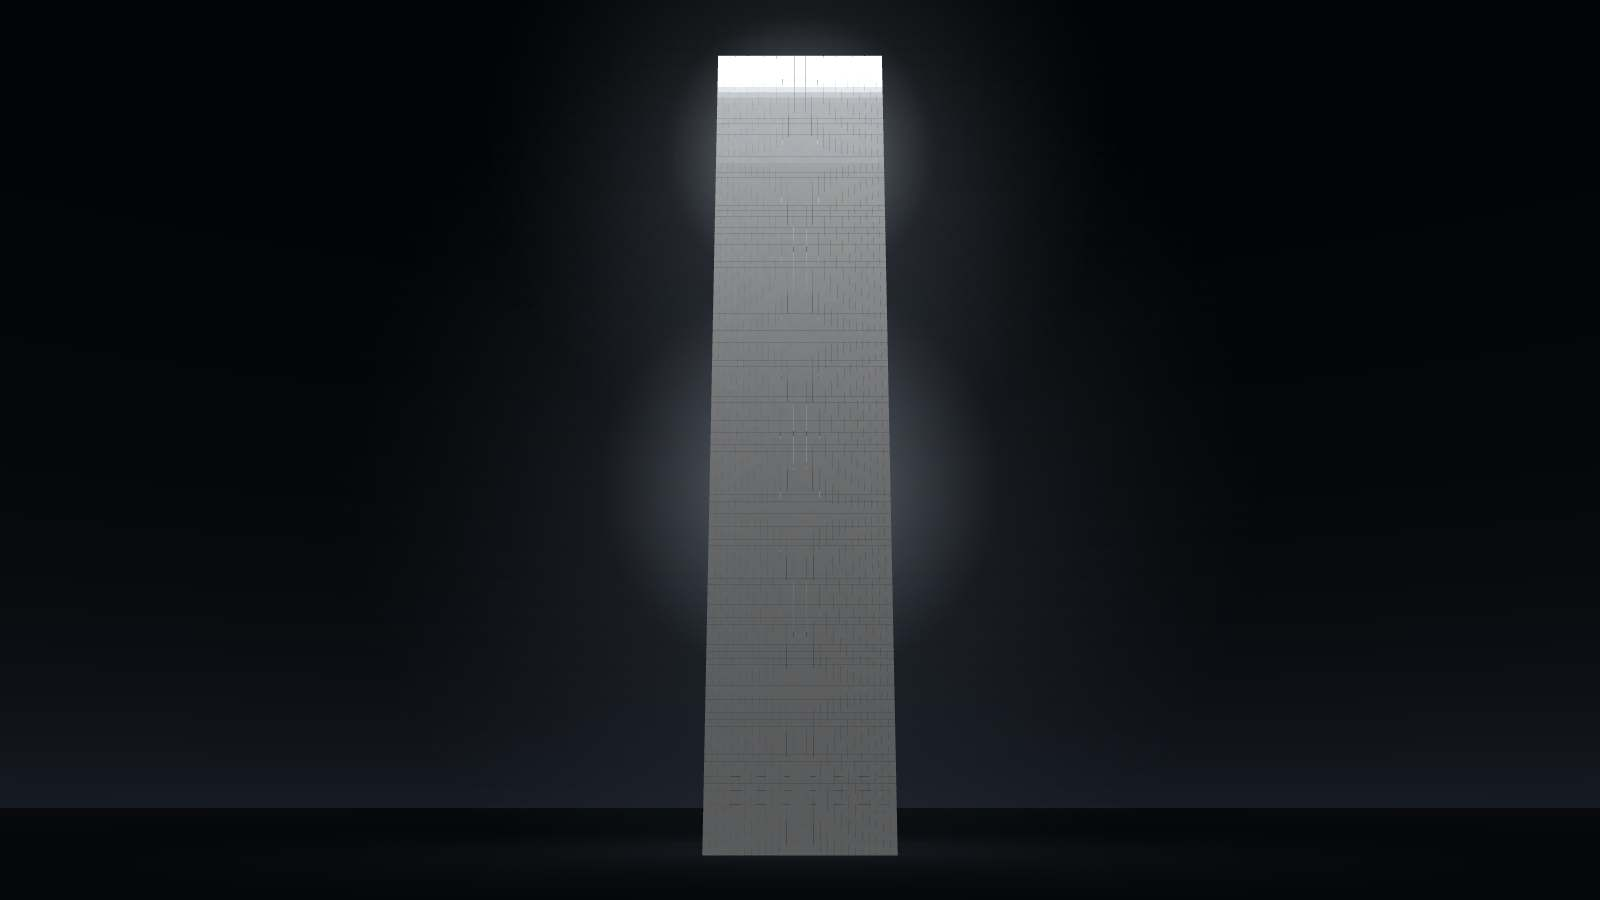
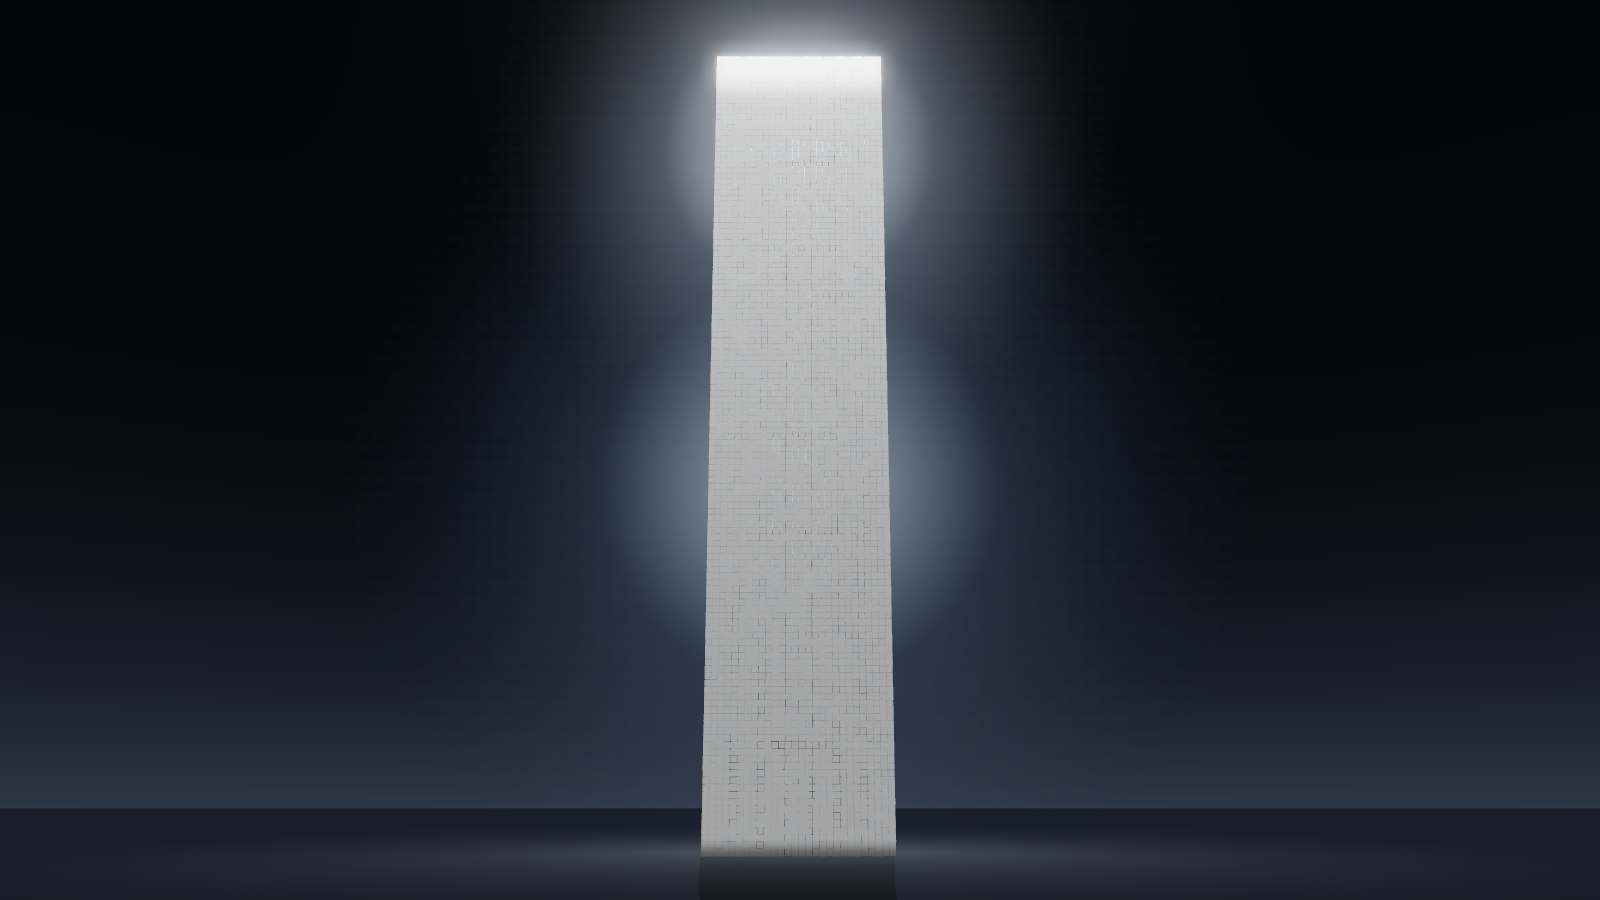
polish: the monument made expensive
Approved direction, polish pass only. ACES filmic tonemapping with an
MSAA half-float composer chain and a restrained bloom that only the
burning crown, the marks and the falling debris can cross. A true
reflection of the monument drowned in the sea, shivered by the water
and dimmed under a translucent surface. Masonry on the face: per-cell
cut variance, mortar joints holding shadow, a dark waterline. Falling
cells now tumble as they go. The camera breathes with the sea. Blacks
re-grounded after the tonemap lift so the frame stays brutally dark
with real highlights.

Harness 6/6 unchanged: replay bit-identical, first action recorded,
a11y and reduced motion intact, zero console errors.

diff --git a/src/render/JourneyRenderer.ts b/src/render/JourneyRenderer.ts
@@ -1,4 +1,8 @@
 import * as THREE from 'three';
+import { EffectComposer } from 'three/examples/jsm/postprocessing/EffectComposer.js';
+import { RenderPass } from 'three/examples/jsm/postprocessing/RenderPass.js';
+import { UnrealBloomPass } from 'three/examples/jsm/postprocessing/UnrealBloomPass.js';
+import { OutputPass } from 'three/examples/jsm/postprocessing/OutputPass.js';
 import { LatticeWorld, CELL, HALF, TOWER_TOP, SEA_Y } from '../world/LatticeWorld';
 import { CameraPath } from './CameraPath';
 
@@ -24,6 +28,8 @@ const CLAD_VERT = /* glsl */ `
   out float vDying;
   out float vFall;
   out float vHeight;
+  out vec2 vUv;
+  out float vWorldY;
   void main() {
     vSeed = aSeed;
     // scroll decay: past the threshold the cell detaches and falls.
@@ -34,15 +40,30 @@ const CLAD_VERT = /* glsl */ `
     vFall = fallT;
     vDying = smoothstep(0.06, 0.0, aThresh - uDecay) * step(uDecay, aThresh);
 
-    vec3 wp = position * (fallT > 0.0 ? clamp(1.0 - fallT * 0.45, 0.05, 1.0) : 1.0) + aOffset;
+    // masonry: no two cells cut quite alike
+    float sizeVar = 0.93 + 0.1 * fract(aSeed * 7.31);
+    vec3 wp = position * sizeVar * (fallT > 0.0 ? clamp(1.0 - fallT * 0.45, 0.05, 1.0) : 1.0) + aOffset;
     if (fallT > 0.0) {
+      float ang = fallT * (aSeed * 8.0 - 4.0);
+      float ca = cos(ang);
+      float sa = sin(ang);
+      vec3 lp = wp - aOffset;
+      lp.xy = mat2(ca, -sa, sa, ca) * lp.xy;
+      lp.xz = mat2(ca, -sa, sa, ca) * lp.xz;
+      wp = lp + aOffset;
       wp.y -= fallT * fallT * 34.0;
       wp.x += sin(aSeed * 43.0) * fallT * 6.0;
       wp.z += cos(aSeed * 91.0) * fallT * 6.0;
+      if (wp.y < -2.0) wp = vec3(0.0, -9999.0, 0.0);
     }
-    // drowned cells vanish
-    if (wp.y < -2.0) wp = vec3(0.0, -9999.0, 0.0);
-
+    #ifdef MIRROR
+    if (wp.y > -100.0) {
+      wp.y = -wp.y - 0.12;
+      wp.x += sin(wp.y * 0.32 + uTime * 0.7 + wp.z * 0.11) * 0.4;
+    }
+    #endif
+    vUv = uv;
+    vWorldY = wp.y;
     vHeight = clamp(aOffset.y / 195.0, 0.0, 1.0);
     vNormalV = normalize(normalMatrix * normal);
     vec4 mv = viewMatrix * vec4(wp, 1.0);
@@ -60,6 +81,8 @@ const CLAD_FRAG = /* glsl */ `
   in float vDying;
   in float vFall;
   in float vHeight;
+  in vec2 vUv;
+  in float vWorldY;
   uniform float uTime;
   uniform float uSeverity;
   uniform vec3 uFogColor;
@@ -75,6 +98,15 @@ const CLAD_FRAG = /* glsl */ `
     vec3 col = base * (0.48 + 0.5 * diff) * mix(0.62, 1.5, vHeight * vHeight);
     // the crown burns: the monument's own lamp
     col += base * smoothstep(0.93, 1.0, vHeight) * 1.6 * (1.0 - uSeverity * 0.5);
+    // mortar: the joints hold shadow
+    vec2 eUv = min(vUv, 1.0 - vUv);
+    float edge = min(eUv.x, eUv.y);
+    col *= 0.76 + 0.24 * smoothstep(0.0, 0.1, edge);
+    // the waterline keeps its dark
+    col = mix(col * 0.35, col, smoothstep(0.0, 4.0, vWorldY));
+    #ifdef MIRROR
+    col *= 0.24;
+    #endif
     if (vDying > 0.0) {
       float fl = 0.45 + 0.55 * step(0.5, fract(uTime * (2.0 + vSeed * 6.0) + vSeed * 17.0));
       col *= mix(1.0, fl * 0.6, vDying);
@@ -143,8 +175,8 @@ const SEA_FRAG = /* glsl */ `
     float pool = exp(-r * 0.016);
     col += vec3(0.14, 0.155, 0.18) * pool * (1.0 - uDecay * 0.75) * (1.0 - uSeverity * 0.4);
     float haze = 1.0 - exp(-dist * dist * 0.000004);
-    col = mix(col, vec3(0.028, 0.038, 0.052), haze);
-    outColor = vec4(col, 1.0);
+    col = mix(col, vec3(0.013, 0.018, 0.026), haze);
+    outColor = vec4(col, 0.72);
   }
 `;
 
@@ -165,8 +197,8 @@ const SKY_FRAG = /* glsl */ `
   void main() {
     vec3 d = normalize(vDir);
     float band = exp(-abs(d.y + 0.03) * 8.0);
-    vec3 base = mix(vec3(0.010, 0.014, 0.02), vec3(0.004, 0.006, 0.009), uSeverity);
-    vec3 glow = mix(vec3(0.09, 0.105, 0.135), vec3(0.028, 0.04, 0.055), uSeverity);
+    vec3 base = mix(vec3(0.004, 0.006, 0.009), vec3(0.002, 0.003, 0.005), uSeverity);
+    vec3 glow = mix(vec3(0.042, 0.052, 0.07), vec3(0.014, 0.02, 0.028), uSeverity);
     vec3 col = base + glow * band;
     outColor = vec4(col, 1.0);
   }
@@ -178,6 +210,9 @@ export class JourneyRenderer {
   readonly path = new CameraPath();
 
   private readonly scene = new THREE.Scene();
+  private readonly composer: EffectComposer;
+  private readonly bloom: UnrealBloomPass;
+  private mirrorMat!: THREE.ShaderMaterial;
   private readonly cladMat: THREE.ShaderMaterial;
   private readonly markMat: THREE.ShaderMaterial;
   private readonly seaMat: THREE.ShaderMaterial;
@@ -202,7 +237,19 @@ export class JourneyRenderer {
       powerPreference: 'high-performance'
     });
     this.renderer.setClearColor(0x020304, 1);
+    this.renderer.toneMapping = THREE.ACESFilmicToneMapping;
+    this.renderer.toneMappingExposure = 1.1;
     this.camera = new THREE.PerspectiveCamera(42, 1, 0.3, 900);
+
+    const rt = new THREE.WebGLRenderTarget(2, 2, {
+      samples: 4,
+      type: THREE.HalfFloatType
+    });
+    this.composer = new EffectComposer(this.renderer, rt);
+    this.composer.addPass(new RenderPass(this.scene, this.camera));
+    this.bloom = new UnrealBloomPass(new THREE.Vector2(2, 2), 0.38, 0.5, 0.78);
+    this.composer.addPass(this.bloom);
+    this.composer.addPass(new OutputPass());
 
     // --- sky ---
     this.skyMat = new THREE.ShaderMaterial({
@@ -228,6 +275,7 @@ export class JourneyRenderer {
         uDecay: { value: 0 }
       }
     });
+    this.seaMat.transparent = true;
     const sea = new THREE.Mesh(new THREE.PlaneGeometry(2400, 2400), this.seaMat);
     sea.rotation.x = -Math.PI / 2;
     sea.position.y = SEA_Y;
@@ -261,6 +309,13 @@ export class JourneyRenderer {
     const clad = new THREE.Mesh(cladGeom, this.cladMat);
     clad.frustumCulled = false;
     this.scene.add(clad);
+
+    // the monument drowned: a true reflection, shivered by the water
+    this.mirrorMat = this.cladMat.clone();
+    this.mirrorMat.defines = { MIRROR: '' };
+    const mirror = new THREE.Mesh(cladGeom, this.mirrorMat);
+    mirror.frustumCulled = false;
+    this.scene.add(mirror);
 
     // --- the true form: the dark frame inside ---
     const frameMat = new THREE.MeshStandardMaterial({
@@ -328,7 +383,7 @@ export class JourneyRenderer {
     this.scene.add(new THREE.AmbientLight(0x1a2129, 1.1));
 
     // --- atmosphere ---
-    this.halo = makeHalo('#a7b8cf', 240);
+    this.halo = makeHalo('#7e93ad', 240);
     this.halo.position.set(0, TOWER_TOP * 0.45, 0);
     this.scene.add(this.halo);
     this.crownHalo = makeHalo('#c3d2e4', 175);
@@ -360,18 +415,25 @@ export class JourneyRenderer {
   update(progress: number, dt: number, reduced: boolean): void {
     this.time += dt;
     this.path.update(this.camera, progress, dt, reduced);
+    if (!reduced) {
+      // the sea breathes under the viewpoint
+      this.camera.position.x += Math.sin(this.time * 0.13) * 0.45;
+      this.camera.position.y += Math.sin(this.time * 0.09 + 2.0) * 0.3;
+    }
     const sev = this.path.state.severity;
     const decay = 0.9 * smooth01(progress, 0.16, 0.98);
 
     const fogDensity = 0.0022 + 0.0028 * smooth01(progress, 0.3, 0.7);
-    const fogColor = lerpColor('#0a1016', '#04070a', sev);
+    const fogColor = lerpColor('#060a0f', '#020407', sev);
 
-    const cu = this.cladMat.uniforms;
-    cu.uDecay!.value = decay;
-    cu.uTime!.value = this.world.tick / 60;
-    cu.uSeverity!.value = sev;
-    cu.uFogDensity!.value = fogDensity;
-    (cu.uFogColor!.value as THREE.Color).copy(fogColor);
+    for (const mat of [this.cladMat, this.mirrorMat]) {
+      const cu = mat.uniforms;
+      cu.uDecay!.value = decay;
+      cu.uTime!.value = this.world.tick / 60;
+      cu.uSeverity!.value = sev;
+      cu.uFogDensity!.value = fogDensity;
+      (cu.uFogColor!.value as THREE.Color).copy(fogColor);
+    }
 
     this.skyMat.uniforms.uSeverity!.value = sev;
     this.seaMat.uniforms.uSeverity!.value = sev;
@@ -403,13 +465,15 @@ export class JourneyRenderer {
     this.markGeom.attributes.position!.needsUpdate = true;
     this.markGeom.attributes.aBorn!.needsUpdate = true;
 
-    this.renderer.render(this.scene, this.camera);
+    this.composer.render();
   }
 
   private readonly resize = (): void => {
     const pr = Math.min(window.devicePixelRatio, this.maxDpr);
     this.renderer.setPixelRatio(pr);
     this.renderer.setSize(window.innerWidth, window.innerHeight);
+    this.composer.setPixelRatio(pr);
+    this.composer.setSize(window.innerWidth, window.innerHeight);
     this.camera.aspect = window.innerWidth / window.innerHeight;
     this.camera.updateProjectionMatrix();
     this.markMat.uniforms.uScale!.value = window.innerHeight * pr * 0.8;
